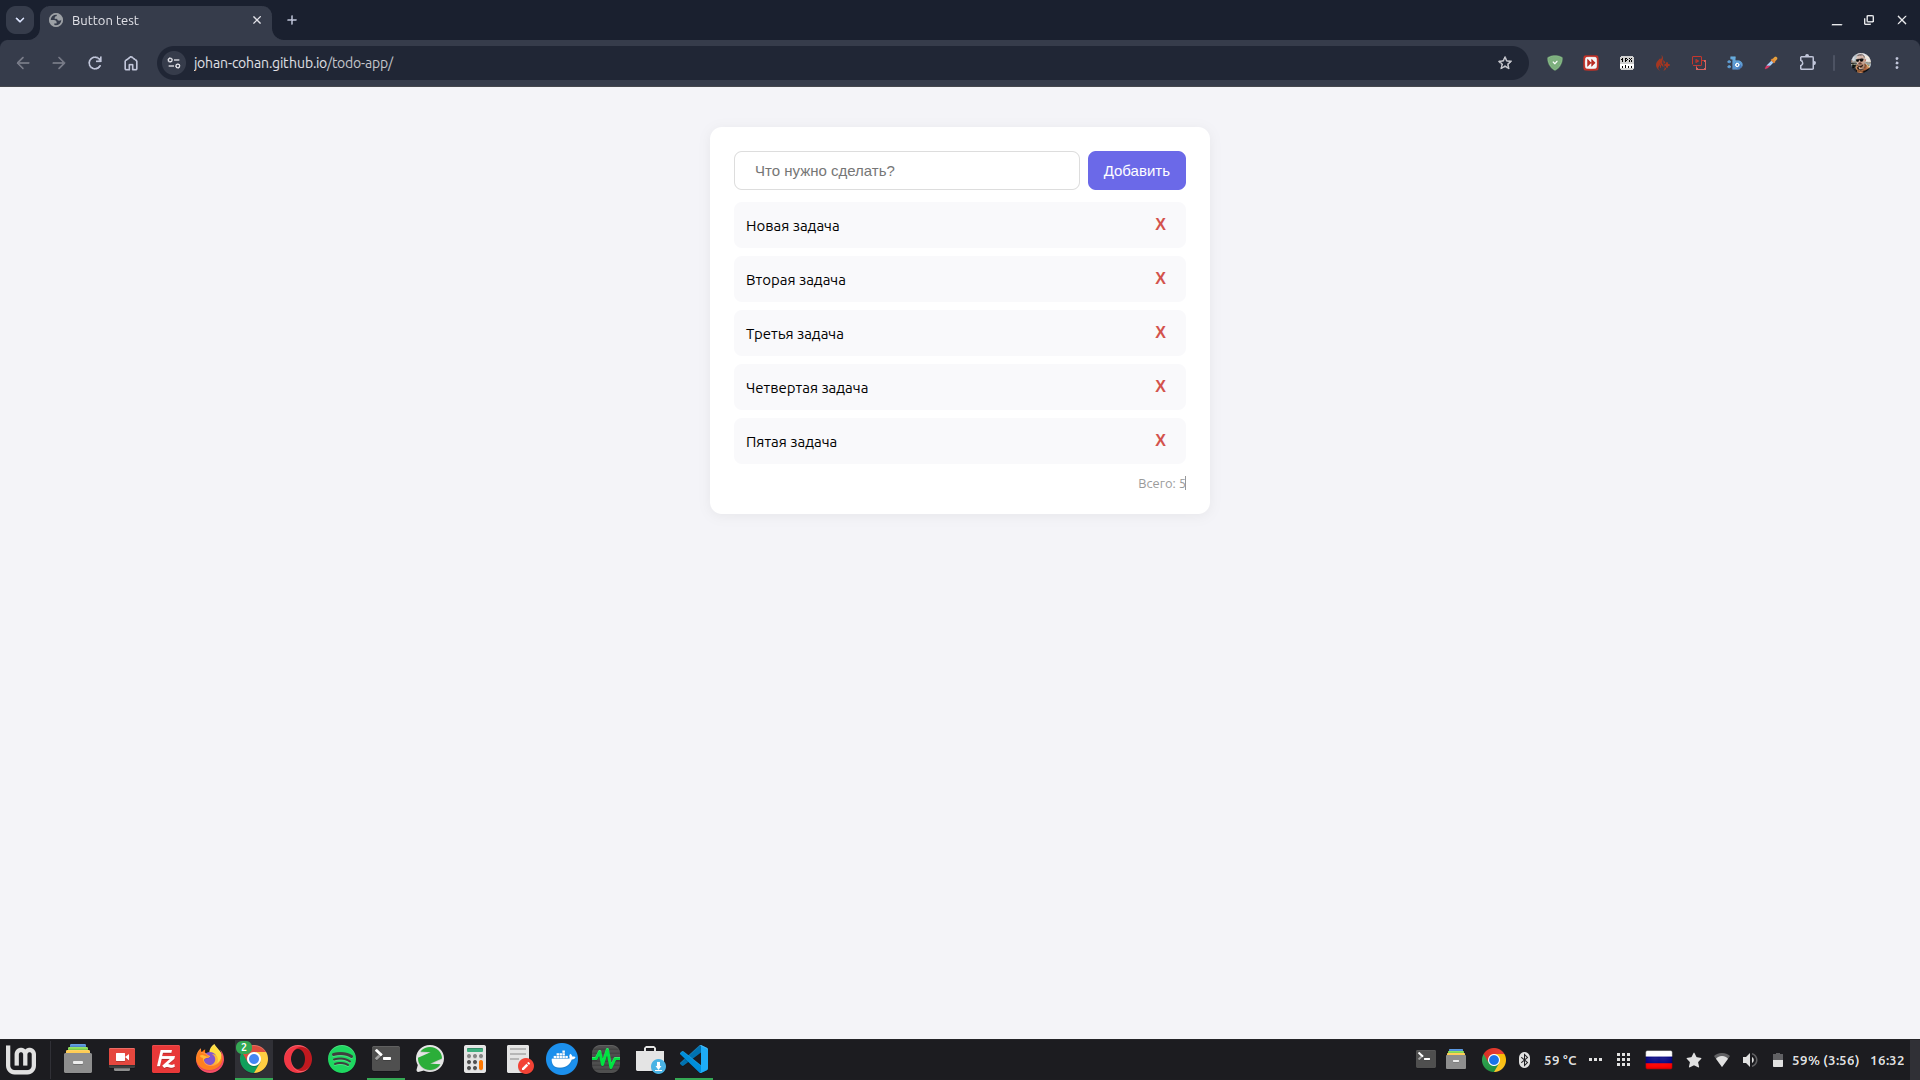
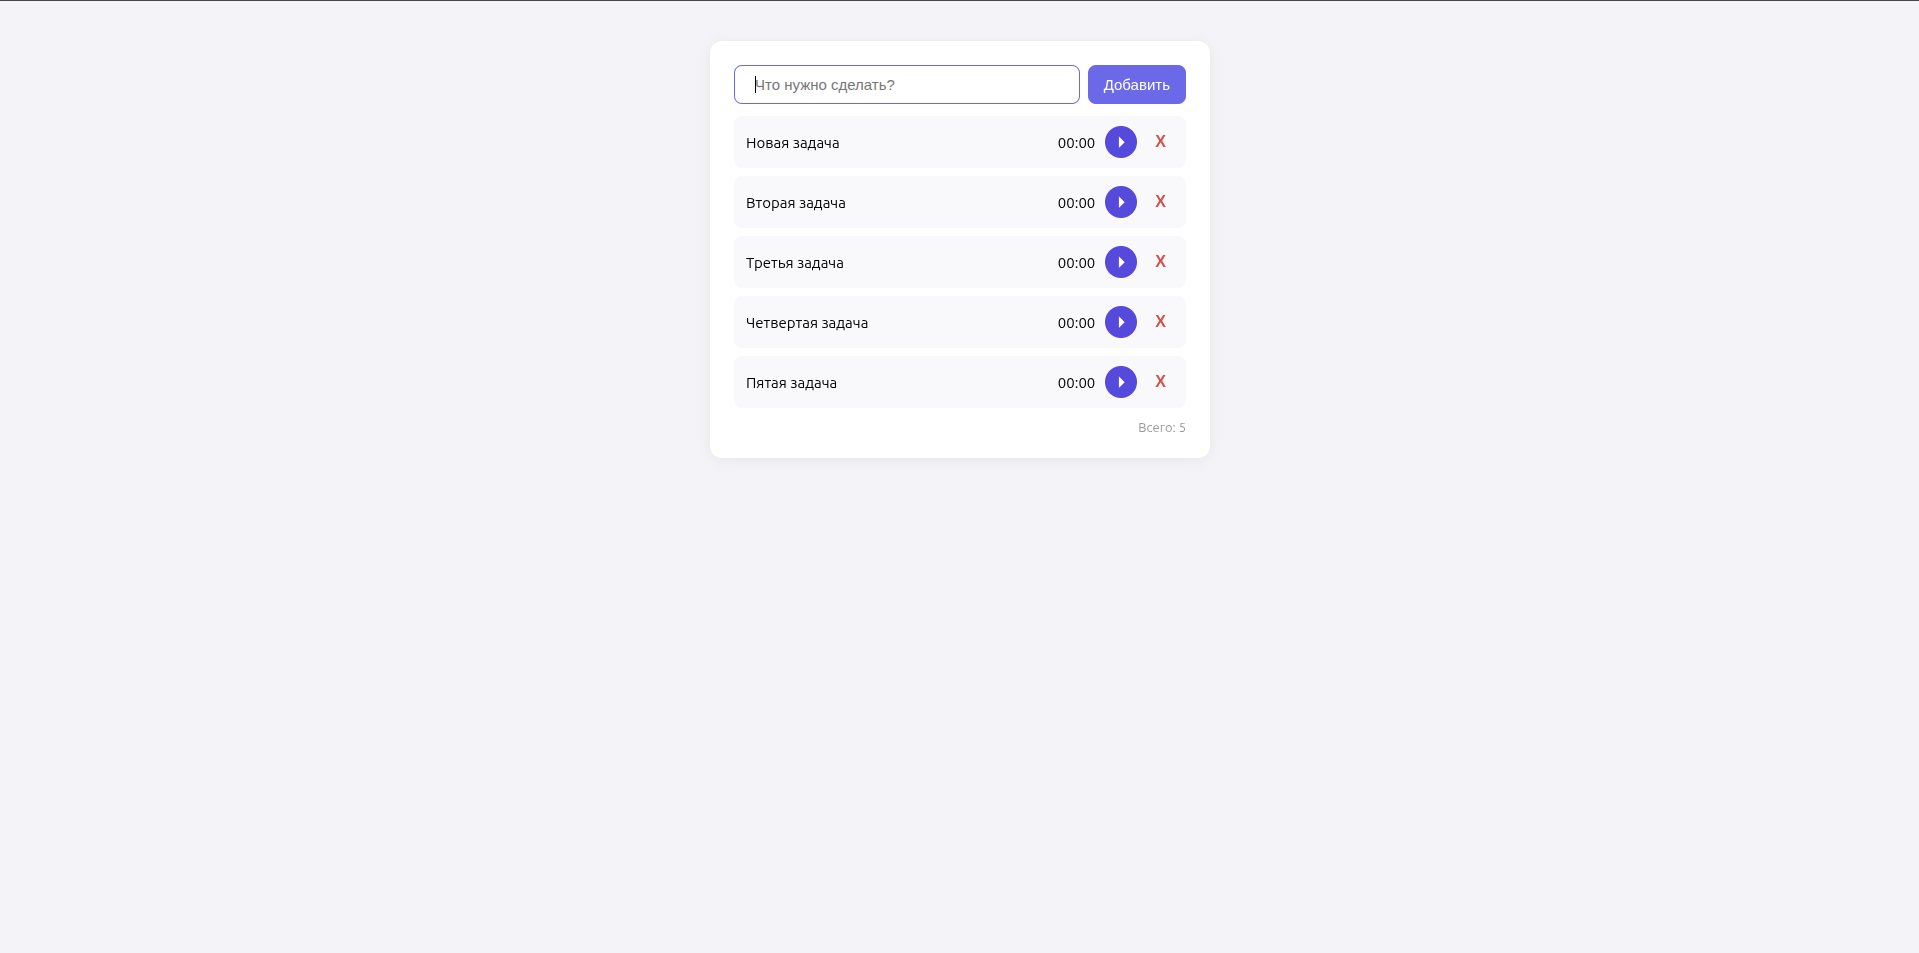
Update README with timer feature and roadmap

diff --git a/style.css b/style.css
@@ -66,12 +66,17 @@ body {
 }
 #taskList li {
     display:flex;
-    justify-content: space-between;
     align-items: center;
+    gap: 10px;
     padding: 10px 12px;
     background: #f9f9fb;
     border-radius: 8px;
     font-size: 15px;
+}
+#taskList li span:first-child {
+    flex:1;
+    min-width: 0;
+    word-break: break-word;
 }
 #taskList li button {
     background: transparent;
@@ -85,9 +90,50 @@ body {
     transition: background 0.2s;
 }
 #taskList li button:hover {
-    background: #fee2e2;
+    background: #999;
+}
+#taskList .toggle-btn {
+    background: #6366f1;
+    color: white;
+    border: none;
+    border-radius: 50%;
+    width: 32px;
+    height: 32px;
+    font-size: 14px;
+    cursor: pointer;
+    display: flex;
+    align-items: center;
+    justify-content: center;
+    transition: background 0.2s;
+    flex-shrink: 0;
+}
+#taskList .toggle-btn {
+    background: #4f46e5;
+}
+#taskList .delete-btn {
+    background: transparent;
+    color: #ef4444;
+    border: none;
+    font-size: 16px;
+    font-weight: bold;
+    cursor: pointer;
+    padding: 4px 8px;
+    border-radius: 4px;
+    transition: background 0.2s;
+    flex-shrink: 0;
 }
 
+#taskList .delete-btn:hover {
+    background: #fee2e2;
+}
+#taskList .time {
+    font-family: 'Courier New', monospace;
+    font-size: 14px;
+    color: #666;
+    min-width: 50px;
+    text-align: right;
+    flex-shrink: 0;
+}
 .empty-message {
     text-align: center;
     color: #999;

diff --git a/app.js b/app.js
@@ -21,6 +21,8 @@ function renderTasks() {
     const span = document.createElement("span");
     const deleteButton = document.createElement("button");
     const toggleButton = document.createElement("button");
+    toggleButton.className = "toggle-btn";
+    deleteButton.className = "delete-btn";
 
     span.textContent = task.text;
     deleteButton.textContent = "Х";

diff --git a/README.md b/README.md
@@ -10,15 +10,15 @@
 
 - ✅ Добавление задач (кнопка или Enter)
 - ✅ Удаление задач одним кликом
-- ✅ Сохранение в localStorage — данные не теряются при перезагрузке
+- ✅ Сохранение в localStorage
 - ✅ Счётчик задач
-- ✅ Пустое состояние с подсказкой
+- ✅ Пустое состояние
 
 ## Технологии
 
 - HTML5
-- CSS3 (Flexbox, CSS-переменные)
-- JavaScript (vanilla, без фреймворков)
+- CSS3
+- JavaScript (vanilla)
 - localStorage API
 
 ## Как запустить локально
